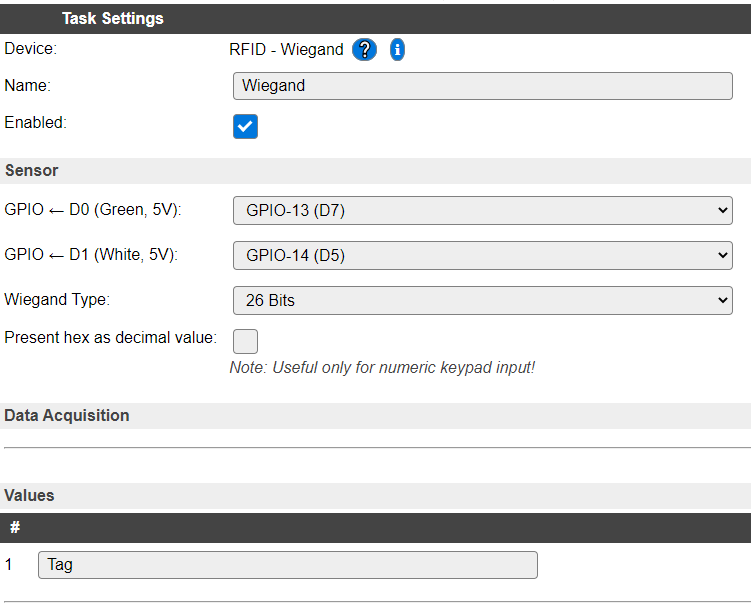
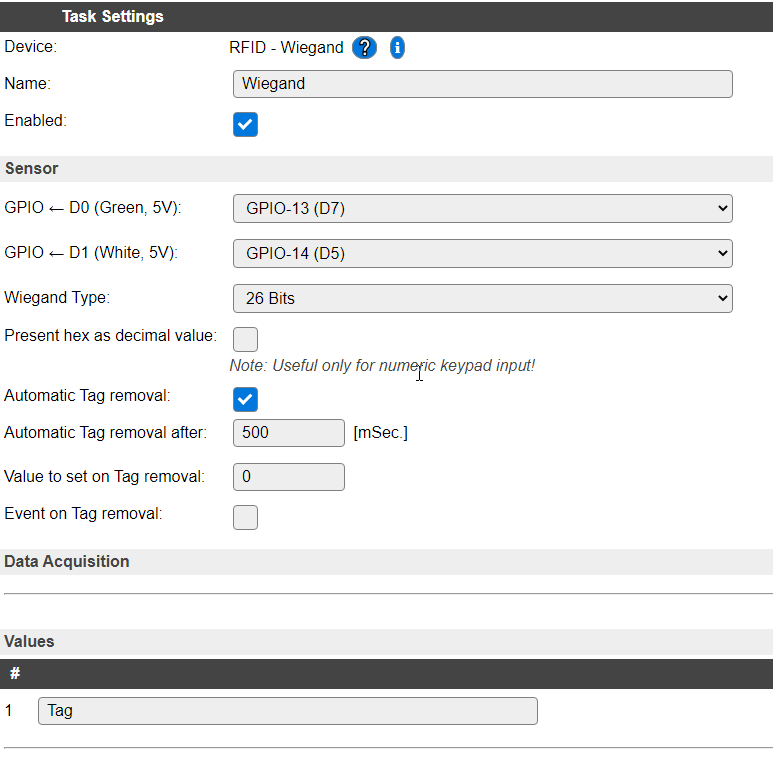
[P008] Wiegand add options for Tag removal

diff --git a/docs/source/Plugin/P008.rst b/docs/source/Plugin/P008.rst
@@ -26,12 +26,21 @@ Description
 
 The Wiegand plugin reads the Wiegand protocol, either the 26 or 34 bit variant, transmitted over a 2-wire serial connection. The RFID reader or keypad has to be connected to two GPIO pins on the ESP module. The plugin uses an interrupt routine to decode the bitstream. A RFID reader will send a message containing the unique RFID Tag ID. A keypad will send the input after pressing the #, or another configured, confirmation key.
 
-Data is transmitted in hexadecimal format.
-For numeric keypads an option is provided to transform the hex value into a decimal representation, so that when entering value 1234# (# is the confirmation key here), not the result 4660 (0x1234) is made available, but actually 1234. This for easier processing/validating of the entered value. Any input of A-F is replaced by 0 when this option is enabled! It should not be enabled when using a RFID reader, as the Tag ID won't be correct.
+Data is transmitted in hexadecimal format. (See below for an option to transform to decimal when using a decimal numeric keypad.)
 
 The value is placed in the Tag variable (this name can be changed).
 
 .. image:: P008_Settings.png
+
+**Present hex as decimal value** (Disabled by default) For decimal numeric keypads this option is provided to transform the hex value into a decimal representation, so that when entering value 1234# (# is the confirmation key here), not the result 4660 (0x1234) is made available, but actually 1234. This for easier processing/validating of the entered value. Any input of A-F is replaced by 0 when this option is enabled! It should not be enabled when using a RFID reader, as the Tag ID won't be correct!
+
+**Automatic Tag removal** (Enabled by default) after scanning a tag, it can be automatically removed (reset).
+
+**Automatic Tag removal after** (Default 500 mSec) The timeout in milli seconds (range 250 - 60000) after which the last Tag will be automatically removed, if that option is enabled.
+
+**Value to set on Tag removal** (Default 0) Set a value to the Tag when the previous tag is removed. (Range 0 to 2147483647 as larger values are difficult to store in settings.)
+
+**Event on Tag removal** (Disabled by default) When enabled sends the removed Tag value as an event and to all enabled controllers.
 
 Supported hardware
 ------------------
